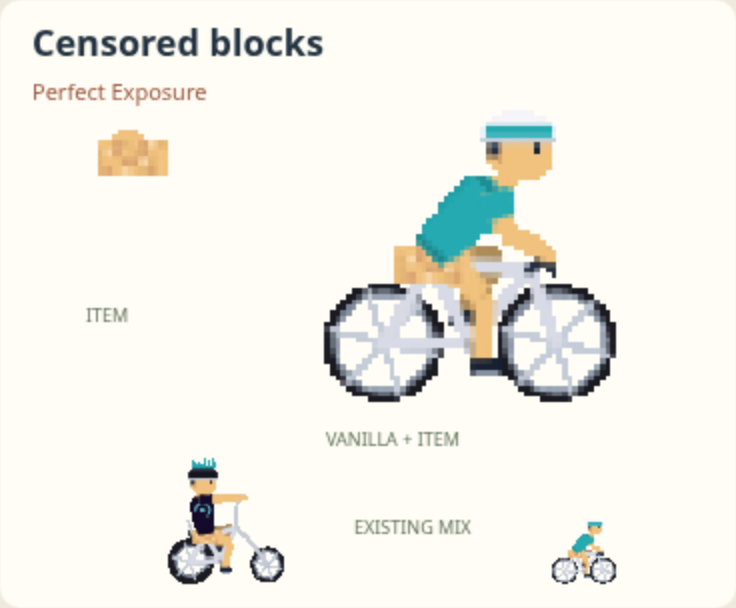
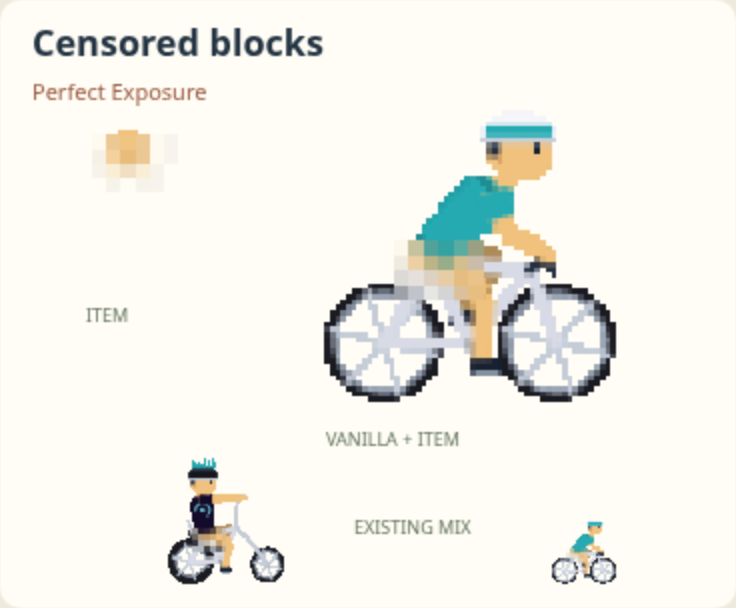
Pixelate the actual scene for censored bottoms

diff --git a/src/cosmetics/draw/censor.ts b/src/cosmetics/draw/censor.ts
@@ -1,0 +1,43 @@
+import type { G, P } from './prims';
+
+const surfaces = new WeakMap<G, { canvas: HTMLCanvasElement; g: G }>();
+const COLS = 6, ROWS = 4;
+
+/** Pixelate the composited scene, including the bike and background, at the hips.
+ * Work in rider space so camera zoom, reflection, bike tilt and clipping all apply.
+ * drawImage sampling avoids a scene pixel readback (and works with tainted canvases).
+ */
+export function drawCensor(g: G, hip: P, t: number) {
+  if (typeof document === 'undefined') return;
+  const inverse = g.getTransform().inverse();
+  if (![inverse.a, inverse.b, inverse.c, inverse.d, inverse.e, inverse.f].every(Number.isFinite)) return;
+  let surface = surfaces.get(g);
+  if (!surface) {
+    const canvas = document.createElement('canvas');
+    canvas.width = COLS; canvas.height = ROWS;
+    const ctx = canvas.getContext('2d');
+    if (!ctx) return;
+    surface = { canvas, g: ctx }; surfaces.set(g, surface);
+  }
+  const x = hip[0] - 3.5, y = hip[1] - 1, w = 8.4, h = 5.6;
+  const s = surface.g, sx = COLS / w, sy = ROWS / h;
+  s.setTransform(1, 0, 0, 1, 0, 0); s.clearRect(0, 0, COLS, ROWS);
+  // Inverse destination transform maps the already-painted scene into this tiny grid.
+  s.setTransform(sx * inverse.a, sy * inverse.b, sx * inverse.c, sy * inverse.d,
+    sx * (inverse.e - x), sy * (inverse.f - y));
+  s.imageSmoothingEnabled = true; s.imageSmoothingQuality = 'high';
+  s.drawImage(g.canvas, 0, 0);
+  s.save(); s.setTransform(1, 0, 0, 1, 0, 0);
+  s.globalCompositeOperation = 'source-atop'; s.globalAlpha = .035;
+  for (let row = 0; row < ROWS; row++) for (let col = 0; col < COLS; col++) {
+    s.fillStyle = (row * 19 + col * 11 + Math.floor(t * 6) * 13) % 7 < 3 ? '#fff' : '#000';
+    s.fillRect(col, row, 1, 1);
+  }
+  s.restore();
+  g.save();
+  // Samples already contain the caller's alpha. Replace them rather than doubling it.
+  g.globalAlpha = 1; g.globalCompositeOperation = 'source-over'; g.imageSmoothingEnabled = false;
+  g.filter = 'none'; g.shadowColor = 'transparent';
+  g.clearRect(x, y, w, h); g.drawImage(surface.canvas, x, y, w, h);
+  g.restore();
+}

diff --git a/src/cosmetics/draw/outfit.ts b/src/cosmetics/draw/outfit.ts
@@ -68,7 +68,7 @@ export function drawBottomDetail(g: G, value: OutfitLook['bottoms'], hip: P, kne
     }
   });
 }
-/** Skirts and censor panels span both legs and stay anchored to the pelvis. */
+/** Skirts and the featureless bare pelvis span both legs and stay anchored to the hips. */
 export function drawHipWear(g: G, value: OutfitLook['bottoms'], hip: P, t: number) {
   const w = resolveWear(value); if (inactive(w)) return;
   const { kind, base, ink, accent = ink } = w!;
@@ -80,17 +80,8 @@ export function drawHipWear(g: G, value: OutfitLook['bottoms'], hip: P, t: numbe
     rect(g, ink, -2.1, -.9, 4.4, .7);
   }
   if (kind === 'censor') {
-    // Opaque skin-tone macroblocks, with coarse digital noise instead of clothing details.
-    const palette = [base, ink, accent, shade(base, .94), shade(base, 1.04)];
-    const frame = Math.floor(t * 6);
-    rect(g, base, -3.1, -.5, 6.8, 3.4);
-    for (let row = 0; row < 4; row++) for (let col = 0; col < 8; col++) {
-      const seed = (row * 19 + col * 11 + row * col * 7 + frame * 13) % 29;
-      const color = palette[seed % palette.length];
-      const x = -3.1 + col * .85, y = -.5 + row * .85;
-      rect(g, color, x, y, .85, .85);
-      if (seed % 3 === 0) rect(g, shade(color, seed % 2 ? .94 : 1.04), x + .3, y + .4, .25, .25);
-    }
+    // The censor is a later scene effect; only the unclothed cartoon body goes here.
+    oval(g, SKIN, 0, .5, 2.1, 1.8);
   }
   if (kind === 'bib' || kind === 'dungarees') { rect(g, base, -.5, -2.6, 2.8, 3.3); rect(g, ink, .1, -2.2, 1.5, .9); }
   g.restore();

diff --git a/src/cosmetics/draw/rider.ts b/src/cosmetics/draw/rider.ts
@@ -6,6 +6,7 @@ import { circle, joint, line, poly, rect, shade, SKIN, TAU, type G, type P } fro
 import { drawPet, FLIERS, FLY_AT, RUN_AT, type PetCtx } from './pets';
 import { drawTrail } from './trails';
 import { bottomColors, bottomLength, drawBack, drawBottomDetail, drawHipWear, drawEyewear, drawFootwear, drawGloves, resolveWear } from './outfit';
+import { drawCensor } from './censor';
 
 export interface RiderOpts {
   /** Seconds (animations). */
@@ -73,6 +74,15 @@ export function drawRider(g: G, look: RiderLook, crank: number, wheelM: number, 
   g.save(); g.imageSmoothingEnabled = false;
   g.drawImage(surface.canvas, p.x, p.y, p.w, p.h);
   g.restore();
+  if (resolveWear(look.outfit?.bottoms)?.kind === 'censor') {
+    const def = BIKES[look.bike] ?? BIKES.road;
+    const c = bikeCtx(g, look, crank, wheelM, o.t ?? 0, o.speed ?? 0);
+    g.save();
+    g.rotate(def.tilt?.(c) ?? 0); g.translate(0, def.bob?.(c) ?? 0);
+    drawCensor(g, def.hip, c.t);
+    if (def.stoker) drawCensor(g, def.stoker.hip ?? def.hip, c.t);
+    g.restore();
+  }
 }
 
 function paintRider(g: G, look: RiderLook, crank: number, wheelM: number, o: RiderOpts) {

diff --git a/src/cosmetics/draw/items.ts b/src/cosmetics/draw/items.ts
@@ -5,6 +5,7 @@ import { drawJerseyItem } from './jersey';
 import { drawPet, FLIERS } from './pets';
 import { drawTrail } from './trails';
 import { drawWearItem } from './outfit';
+import { drawCensor } from './censor';
 import { rect, TAU, type G } from './prims';
 
 export function itemBox(it: Item) {
@@ -46,4 +47,5 @@ export function drawCosmeticItem(g:G,it:Item,look:RiderLook,t:number) {
     const pixels=s.g.getImageData(0,0,160,110);for(let i=3;i<pixels.data.length;i+=4)pixels.data[i]=pixels.data[i]>=128?255:0;s.g.putImageData(pixels,0,0);
   }
   g.save();g.imageSmoothingEnabled=false;g.drawImage(s.canvas,-56,-43,80,55);g.restore();
+  if(it.slot==='bottoms'&&it.look.kind==='censor')drawCensor(g,[0,-10],t);
 }

diff --git a/docs/visual-polish/wardrobe/implemented/README.md b/docs/visual-polish/wardrobe/implemented/README.md
@@ -16,6 +16,7 @@ Locker browsing groups are Ride, Rider, Company & effects, and Identity. Ships h
 - [Desktop Locker](locker-desktop.png), [phone Locker](locker-phone.png)
 - [Desktop Legacy collection](legacy-desktop.png), [phone Legacy collection](legacy-phone.png)
 - [Cadenza ship selection](cadenza-ships.png), [locked ships](cadenza-locked.png)
+- [Scene-based censor effect](censor-scene-proof.png), [checks](censor-checks.json): actual pixelation of a featureless pantless rider, bike and background, with subtle noise.
 - [Canvas validation](render-checks.json): each new wearable changes visible rider pixels and has isolated shelf art; 300 combined outfit poses across all 25 bikes; legacy art also renders.
 
 ## Reproduce
@@ -25,6 +26,7 @@ Start Vite on localhost, then open `/dev/wardrobe-catalog.html`. It shows actual
 ```sh
 npm run dev -- --host 127.0.0.1 --port 5199 --strictPort
 node scripts/check-wardrobe.mjs
+node scripts/check-censor.mjs
 node scripts/check-rider-style.mjs /tmp/wattcade-player
 npm run typecheck
 npm test
@@ -36,3 +38,5 @@ Pass an output directory to either capture script; set `REVIEW_URL` to use a dif
 ## Verification results
 
 Typecheck and production build passed. The broad regression run passed 1,150 tests; four tests hit environment/time limits (the localhost media-resolver server and two Dynamo scenarios). Re-running those two files with localhost sockets enabled, one worker, and a 15-second test limit passed all 42 tests. The final focused wardrobe, migration, Locker, and ship-menu run passed 33 tests. Browser checks verify 94 worn/shelf designs, 300 combined poses, desktop/phone Locker interactions, owned-only Legacy browsing, and locked/unlocked ship selection above the HUD. Native iPad/Bluefy remains a device check.
+
+The censor follow-up samples the completed Canvas scene rather than painting a garment. Additional browser checks cover three source backgrounds, rotated/reflected camera transforms, clipping, transparent previews, caller alpha/state, and all 25 bikes at four crank phases. The featureless bare body remains underneath the coarse mosaic; no scene pixel readback is required.

diff --git a/src/cosmetics/NOTES.md b/src/cosmetics/NOTES.md
@@ -20,7 +20,8 @@ Shared cosmetic wardrobe; ships are selected inside Cadenza. Spec: SPEC §5.4b.
 ## Art
 - `draw/rider.ts`: shared two-sample sprite grid and solid cutout; opaque rider edges stay binary.
 - `draw/outfit.ts`: parameterized bottoms, hands, feet, eyewear and back art anchored to live joints;
-  isolated shelf drawings reuse the worn drawers. Includes the tutu and opaque skin-tone censor mosaic.
+  isolated shelf drawings reuse the worn drawers. Includes the tutu and featureless bare censor body.
+- `draw/censor.ts`: post-composite pixelation samples body, bike and scene; follows zoom, tilt and clips.
 - `draw/jersey.ts`: jersey, tank, crop, bikini, hoodie, vest, mesh, knotted, coat, jacket and robe cuts.
 - `draw/items.ts`: isolated art. `RiderAvatar` shows the full outfit; lazy shelf allocation remains.
 - Drawers for all original bikes/hats/pets/trails remain for Legacy owners. Light Cycle/trail stay independent.
@@ -31,5 +32,6 @@ Shared cosmetic wardrobe; ships are selected inside Cadenza. Spec: SPEC §5.4b.
 `npm run typecheck`; `npx vitest run src/cosmetics src/progression src/shell src/games/cadenza`.
 With localhost Vite on 5199: `node scripts/check-wardrobe.mjs` checks visible worn/shelf art,
 all bikes at four crank phases, owned Legacy browsing, tutu equip, phone overflow and local ships.
+`node scripts/check-censor.mjs` checks scene sampling, camera transforms, clips, alpha and all bike poses.
 `node scripts/check-rider-style.mjs /tmp/wattcade-player` checks existing rider art and caller state.
 Captures: `docs/visual-polish/wardrobe/implemented/`; proposal and source map in the parent directory.

diff --git a/docs/visual-polish/wardrobe/UNLOCK-PROPOSAL.md b/docs/visual-polish/wardrobe/UNLOCK-PROPOSAL.md
@@ -127,7 +127,7 @@ These are curation calls based on repeated shapes, weak visibility, generic reco
 | Union Rep | HAMSTERGRID / Labour Relations (`hm_strike`) | Union work gloves — **Hands** | Labour Relations earns red work gloves with a small union badge. |
 | Breadbasket | Watershed / Breadbasket (`ws_breadbasket`) | Bread basket — **Back** | A wicker basket with baguettes: turn the title into a wearable joke. |
 | Not Today | Crank Crawler / Not Today (`dg_second_wind`) | Bandage wraps — **Hands** | A visible memento of surviving another near-death encounter. |
-| Perfectly Exposed | Crank Crawler / Perfect Exposure (`dg_perfect_exposure`) | Censored blocks — **Bottoms** | The Perfect Exposure pun: an opaque skin-tone pixel mosaic with subtle digital noise. |
+| Perfectly Exposed | Crank Crawler / Perfect Exposure (`dg_perfect_exposure`) | Censored blocks — **Bottoms** | The Perfect Exposure pun: actual scene pixelation over a featureless pantless body, including the bike and background, with subtle noise. |
 | Walking Armoury | Crank Crawler / Full Arsenal (`dg_full_arsenal`) | Weapon rack — **Back** | A strapped sword, bow, and staff silhouette shows the collected arsenal. |
 | Spin Doctor | Crank Crawler / Spin Doctor (`dg_spin_doctor`) | Windstep boots — **Feet** | Spiral ankle wraps and a trailing ribbon reward spin-ups. |
 | Iron Vanguard | Crank Crawler / Vanguard Mastery (`dg_master_vanguard`) | Iron gauntlets — **Hands** | Steel fists suit the Vanguard stance. |
